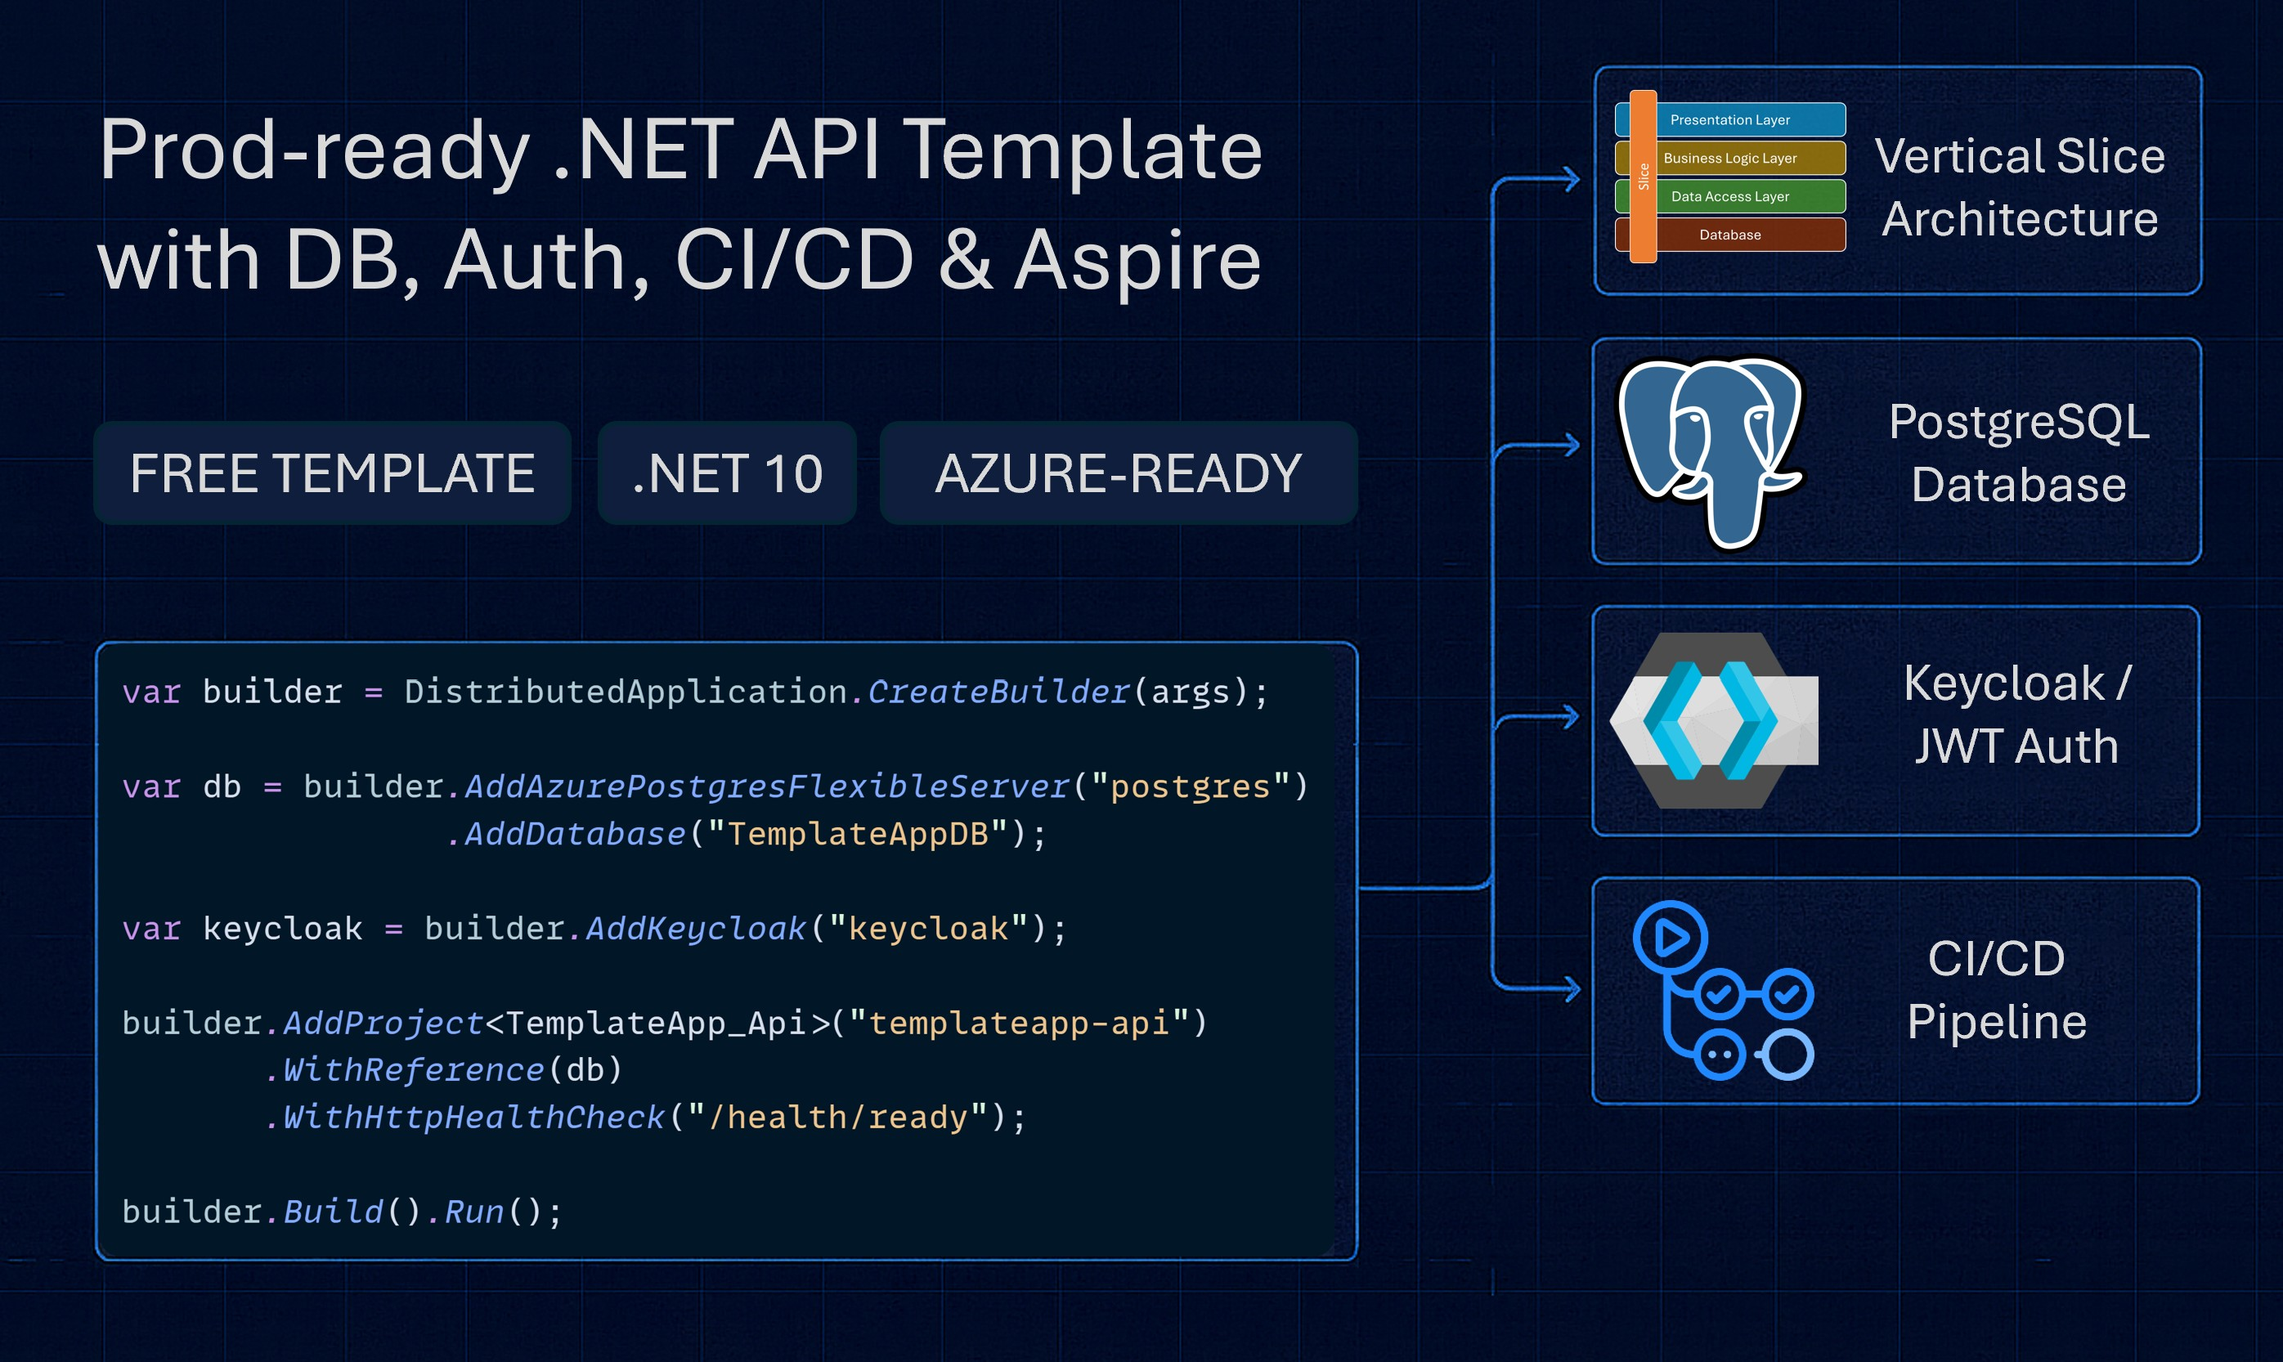
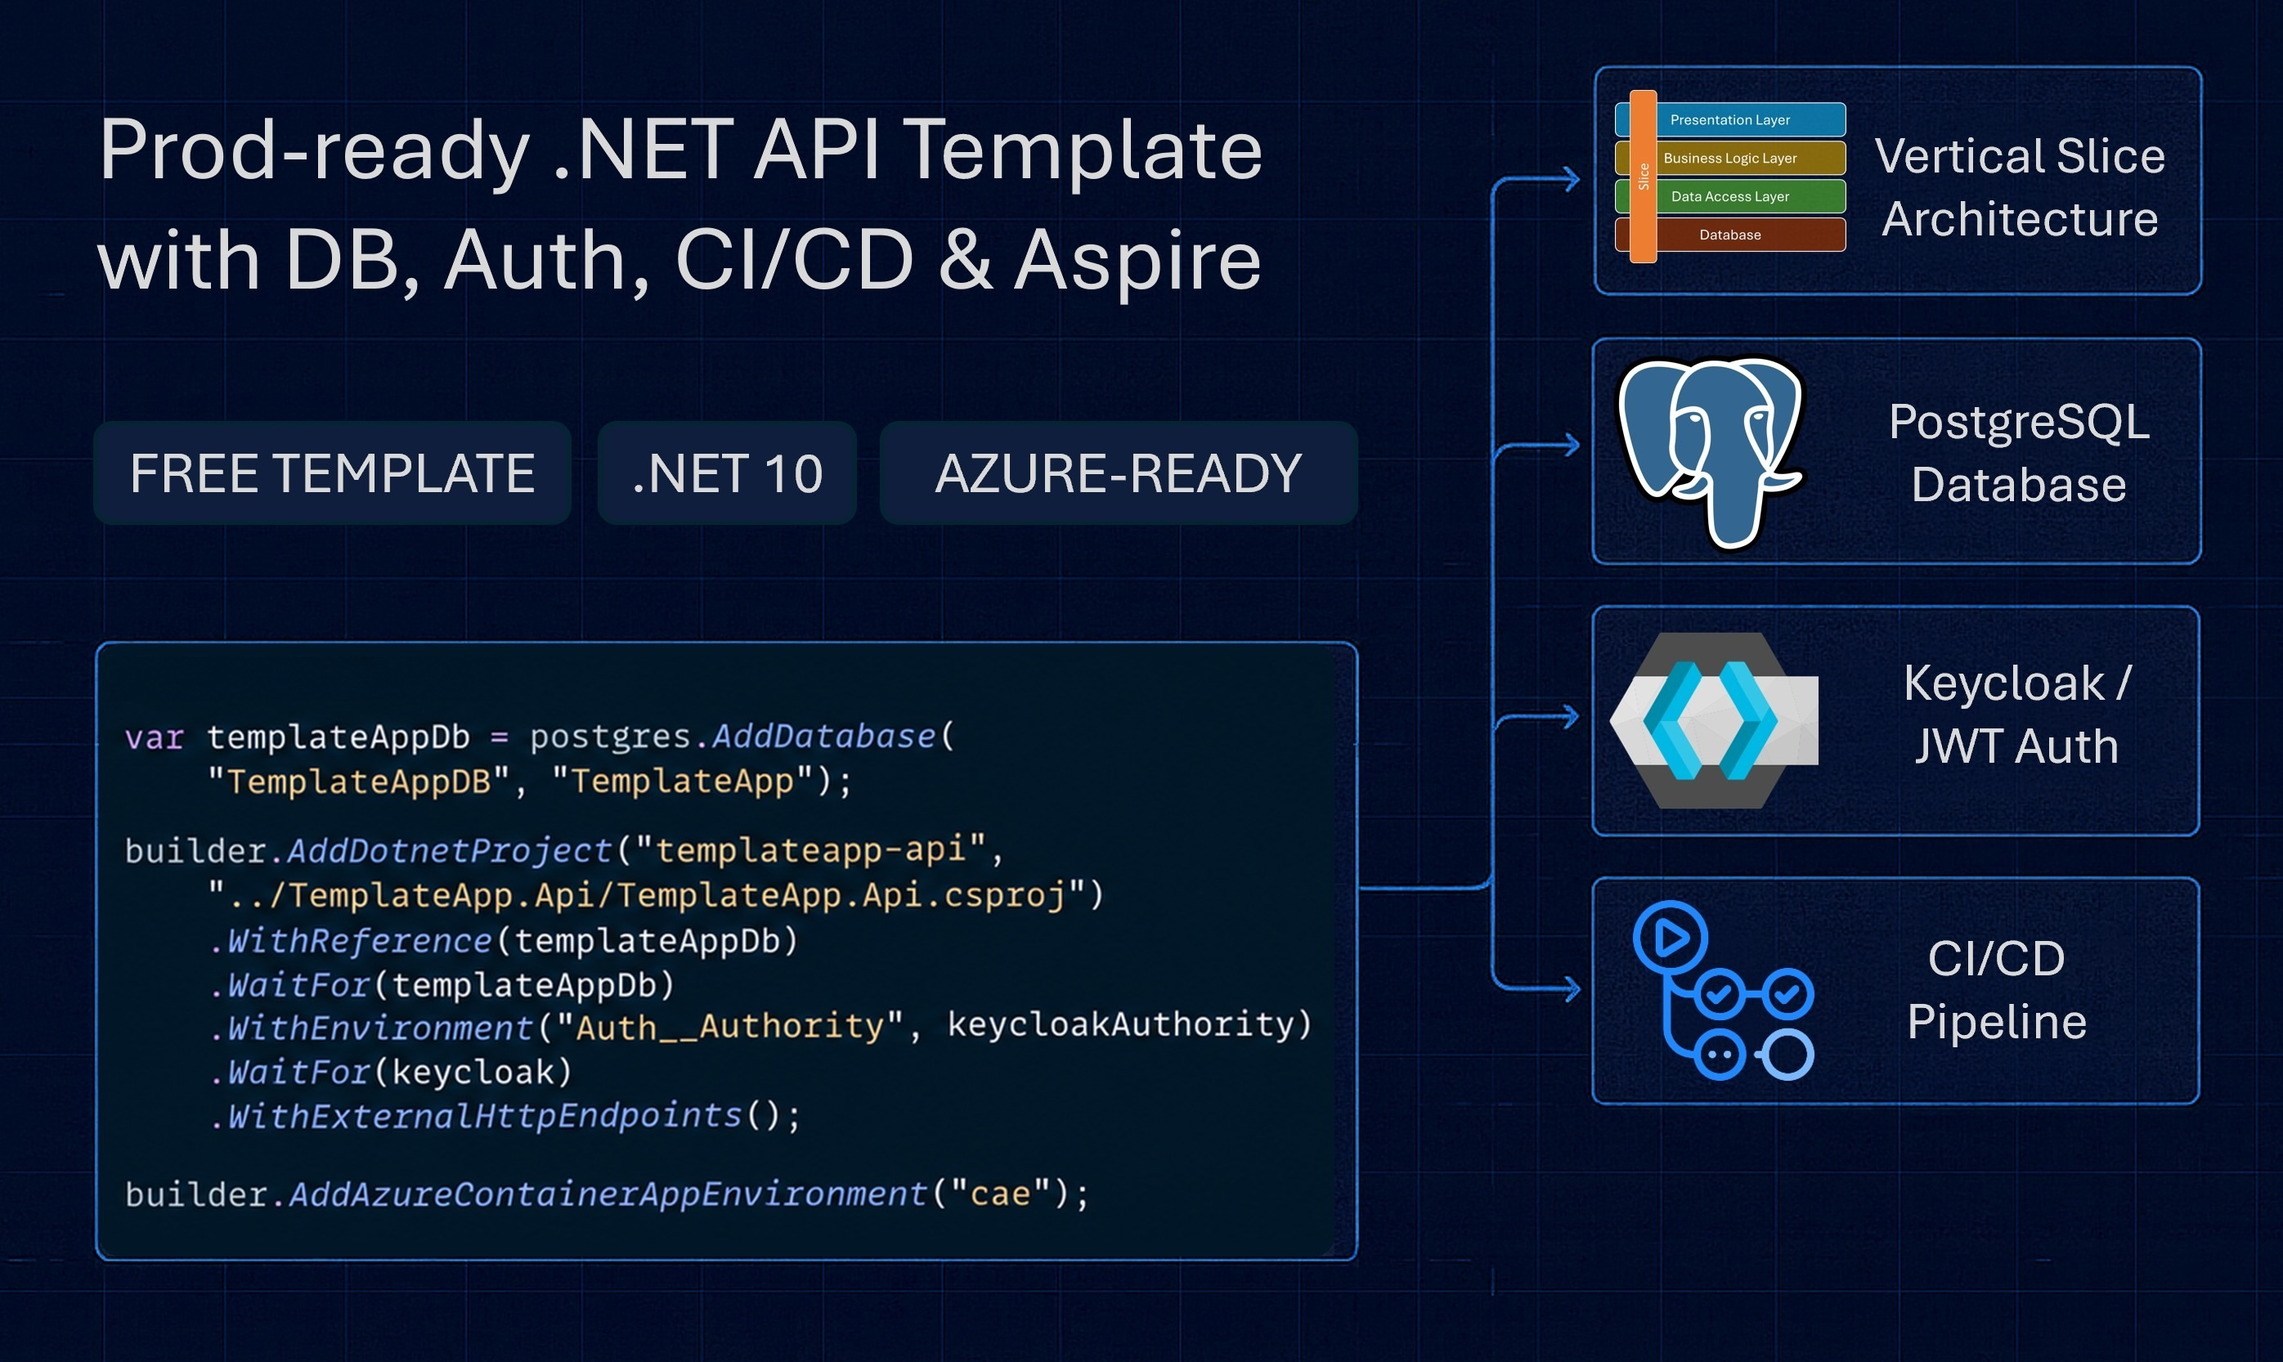
Update blueprint pages and images for the Aspire 17 release
Refresh the free, Pro and Full-Stack blueprint copy and hero images to
match the current templates: one-command deploy, OIDC pipelines with no
stored Azure secrets, 14 integration tests. Drop claims the templates
don't back (custom metrics, zero-config Azure deployment).

Changed region(s): [[0.0623, 0.4994, 0.5609, 0.8427], [0.0312, 0.8739, 0.4051, 0.9052], [0.4362, 0.8427, 0.4674, 0.9052]]

diff --git a/template-sent.html b/template-sent.html
@@ -39,11 +39,11 @@
     <meta property="og:title" content="Template Sent!" />
     <meta property="og:description"
         content="Skip weeks of setup and start delivering value on day 1 with a production-ready .NET backend template." />
-    <meta property="og:image" content="https://juliocasal.com/images/dotnet-backend-blueprint-pro-upgrade-hero.jpg" />
+    <meta property="og:image" content="https://juliocasal.com/images/dotnet-backend-blueprint-pro-upgrade-hero.jpg?v=aspire17-2" />
     <meta property="og:url" content="https://juliocasal.com/blueprint" />
     <meta name="twitter:card" content="summary_large_image">
-    <meta name="twitter:image" content="https://juliocasal.com/images/dotnet-backend-blueprint-pro-upgrade-hero.jpg">
-    <meta name="thumbnail" content="https://juliocasal.com/images/dotnet-backend-blueprint-pro-upgrade-hero.jpg" />
+    <meta name="twitter:image" content="https://juliocasal.com/images/dotnet-backend-blueprint-pro-upgrade-hero.jpg?v=aspire17-2">
+    <meta name="thumbnail" content="https://juliocasal.com/images/dotnet-backend-blueprint-pro-upgrade-hero.jpg?v=aspire17-2" />
     <meta name="robots" content="noindex">
 
     <!-- Webpage Title -->
@@ -211,7 +211,7 @@
             <!-- Image Section -->
             <div class="row justify-content-center mb-4">
                 <div class="col-lg-10 text-center">
-                    <img class="img-fluid rounded" src="images/dotnet-backend-blueprint-pro-upgrade-hero.jpg"
+                    <img class="img-fluid rounded" src="images/dotnet-backend-blueprint-pro-upgrade-hero.jpg?v=aspire17-2"
                         alt=".NET Backend Blueprint Template">
                 </div>
             </div>
@@ -220,9 +220,9 @@
             <div class="row justify-content-center">
                 <div class="col-lg-8 text-center">
                     <p class="line-spaced-paragraph text-white mb-3">
-                        Get the <strong>complete enterprise-ready blueprint</strong>. Everything you need to build
-                        scalable .NET backends
-                        that can handle real-world workloads.
+                        Get the <strong>complete .NET 10 Pro blueprint</strong>. One command puts the full stack in
+                        Azure in about 8 minutes: API, background worker, Service Bus, PostgreSQL, Keycloak and
+                        Application Insights.
                     </p>
                     <div style="margin-top: 2rem;">
                         <!-- CTA Buttons -->
@@ -285,8 +285,8 @@
                                 style="font-size: 1.25rem; margin-right: 1rem; margin-top: 0.1rem;"></i>
                             <div class="media-body">
                                 <h5 class="font-weight-bold">Integration Tests</h5>
-                                <p><strong>Comprehensive test suite</strong> with test containers, messaging mocks,
-                                    and authentication scenarios for reliable development.</p>
+                                <p><strong>14 integration tests</strong> with Testcontainers for PostgreSQL, messaging
+                                    mocks, and authentication checks. Both pipelines run them on every push.</p>
                             </div>
                         </div>
                     </div>
@@ -296,8 +296,8 @@
                                 style="font-size: 1.25rem; margin-right: 1rem; margin-top: 0.1rem;"></i>
                             <div class="media-body">
                                 <h5 class="font-weight-bold">Azure Application Insights</h5>
-                                <p><strong>Enhanced telemetry and monitoring</strong> with distributed tracing,
-                                    custom metrics, and production-grade observability out of the box.</p>
+                                <p><strong>Traces, logs and metrics from the API and the worker</strong> go straight to
+                                    Application Insights when you deploy to Azure.</p>
                             </div>
                         </div>
                     </div>
@@ -320,10 +320,9 @@
                                 style="font-size: 1.25rem; margin-right: 1rem; margin-top: 0.1rem;"></i>
                             <div class="media-body">
                                 <h5 class="font-weight-bold">Azure DevOps CI/CD</h5>
-                                <p>For enterprise teams using Azure DevOps. Complete pipeline with build, test, and
-                                    Azure
-                                    deployment for corporate environments.
-                                </p>
+                                <p>For teams on Azure DevOps. <strong>Builds, tests and deploys to Azure on every push
+                                    to main</strong>, signing in with OIDC so there are no Azure secrets to store or
+                                    rotate.</p>
                             </div>
                         </div>
                     </div>

diff --git a/courses/dotnetbootcamp.html b/courses/dotnetbootcamp.html
@@ -5150,7 +5150,7 @@
                             <div class="col-lg-9 mx-auto text-center">
                                 <h2 class="h2-heading mb-3">Two production-ready templates for your own projects</h2>
                                 <p class="line-spaced-paragraph mb-0">Auth, database, messaging, CI/CD, and Azure
-                                    deployment already working, on the same .NET 10 and Aspire stack you learn in the
+                                    deployment already working, on .NET 10 and Aspire, the stack you learn in the
                                     bootcamp.</p>
                             </div> <!-- end of col -->
                         </div> <!-- end of row -->
@@ -5161,7 +5161,7 @@
                                 <div class="bonus-item">
                                     <div class="image-container mb-3">
                                         <img loading="lazy" class="img-fluid rounded"
-                                            src="../images/dotnet-backend-blueprint-pro-hero.jpg"
+                                            src="../images/dotnet-backend-blueprint-pro-hero.jpg?v=aspire17-2"
                                             alt=".NET Backend Blueprint PRO 10 template">
                                     </div>
                                     <span class="bonus-price"><s>$39</s> Yours free</span>
@@ -5183,15 +5183,16 @@
                                         </li>
                                         <li class="feature-check d-flex align-items-start mb-2">
                                             <span class="feature-check-icon"><i class="fas fa-check fa-lg"></i></span>
-                                            <span><strong>Integration tests and 2 CI/CD pipelines.</strong> Test
-                                                containers, messaging mocks, and auth scenarios, plus ready pipelines
-                                                for GitHub Actions and Azure DevOps.</span>
+                                            <span><strong>Integration tests and 2 CI/CD pipelines.</strong> 14 tests
+                                                with Testcontainers, messaging mocks, and auth checks, plus pipelines
+                                                for GitHub Actions and Azure DevOps that sign in to Azure with no
+                                                stored secrets.</span>
                                         </li>
                                         <li class="feature-check d-flex align-items-start mb-2">
                                             <span class="feature-check-icon"><i class="fas fa-check fa-lg"></i></span>
                                             <span><strong>Production health checks and Application Insights.</strong>
-                                                Distributed tracing, custom metrics, and containers that self-heal when
-                                                a dependency goes down.</span>
+                                                Traces and metrics from the API and the worker, plus liveness and
+                                                readiness probes so Azure restarts a stuck container.</span>
                                         </li>
                                     </ul>
                                     <div class="topic-pills">
@@ -5210,13 +5211,13 @@
                                 <div class="bonus-item">
                                     <div class="image-container mb-3">
                                         <img loading="lazy" class="img-fluid rounded"
-                                            src="../images/dotnet-fullstack-blueprint-hero.jpg"
+                                            src="../images/dotnet-fullstack-blueprint-hero.jpg?v=aspire17"
                                             alt=".NET Full-Stack Blueprint 10 template">
                                     </div>
                                     <span class="bonus-price"><s>$39</s> Yours free</span>
                                     <div class="bonus-item-title">.NET Full-Stack Blueprint 10</div>
-                                    <p class="bonus-item-sub">A production-ready .NET 10 and React template with
-                                        zero-config auth, database, messaging, and Azure deployment.</p>
+                                    <p class="bonus-item-sub">A production-ready .NET 10 and React template with auth,
+                                        database, messaging, and Azure deployment already set up.</p>
                                     <ul class="list-unstyled feature-list">
                                         <li class="feature-check d-flex align-items-start mb-2">
                                             <span class="feature-check-icon"><i class="fas fa-check fa-lg"></i></span>

diff --git a/blueprint.html b/blueprint.html
@@ -39,11 +39,11 @@
     <meta property="og:title" content="Free .NET Backend Blueprint Template | Julio Casal" />
     <meta property="og:description"
         content="Skip weeks of setup and start delivering value on day 1 with a production-ready .NET backend template." />
-    <meta property="og:image" content="https://juliocasal.com/images/dotnet-backend-blueprint-thumbnail.jpg" />
+    <meta property="og:image" content="https://juliocasal.com/images/dotnet-backend-blueprint-thumbnail.jpg?v=aspire17-2" />
     <meta property="og:url" content="https://juliocasal.com/blueprint" />
     <meta name="twitter:card" content="summary_large_image">
-    <meta name="twitter:image" content="https://juliocasal.com/images/dotnet-backend-blueprint-thumbnail.jpg">
-    <meta name="thumbnail" content="https://juliocasal.com/images/dotnet-backend-blueprint-thumbnail.jpg" />
+    <meta name="twitter:image" content="https://juliocasal.com/images/dotnet-backend-blueprint-thumbnail.jpg?v=aspire17-2">
+    <meta name="thumbnail" content="https://juliocasal.com/images/dotnet-backend-blueprint-thumbnail.jpg?v=aspire17-2" />
 
     <!-- Webpage Title -->
     <title>Free .NET Backend Blueprint Template | Julio Casal</title>
@@ -175,7 +175,7 @@
             <!-- Image Section -->
             <div class="row justify-content-center mb-4">
                 <div class="col-lg-10 text-center">
-                    <img class="img-fluid rounded" src="images/dotnet-backend-blueprint-hero.jpg"
+                    <img class="img-fluid rounded" src="images/dotnet-backend-blueprint-hero.jpg?v=aspire17-2"
                         alt=".NET Backend Blueprint Template">
                 </div>
             </div>
@@ -239,8 +239,9 @@
                                 style="font-size: 1.25rem; margin-right: 1rem; margin-top: 0.1rem;"></i>
                             <div class="media-body">
                                 <h5 class="font-weight-bold">Azure Deployment Ready</h5>
-                                <p><strong>One-command deployment</strong> to Azure Container Apps with PostgreSQL
-                                    Flexible Server, Keycloak and managed identities.</p>
+                                <p><strong>One command</strong> sets up Azure Container Apps,
+                                    PostgreSQL Flexible Server, Keycloak and a managed identity, then deploys your
+                                    API.</p>
                             </div>
                         </div>
                     </div>
@@ -261,8 +262,9 @@
                                 style="font-size: 1.25rem; margin-right: 1rem; margin-top: 0.1rem;"></i>
                             <div class="media-body">
                                 <h5 class="font-weight-bold">GitHub Actions CI/CD</h5>
-                                <p><strong>Pre-configured GitHub Actions workflows</strong> with automated building and
-                                    deployment to Azure. Push to deploy in minutes.</p>
+                                <p><strong>A GitHub Actions workflow</strong> that builds and deploys to Azure on every
+                                    push to main. It signs in with OIDC, so there are no Azure secrets to store or
+                                    rotate.</p>
                             </div>
                         </div>
                     </div>

diff --git a/list-sent-fullstack-blueprint.html b/list-sent-fullstack-blueprint.html
@@ -39,11 +39,11 @@
     <meta property="og:title" content="Book List Sent! Get Your .NET Full-Stack Blueprint" />
     <meta property="og:description"
         content="Your .NET book list is ready! Apply what you learned with the .NET Full-Stack Blueprint template." />
-    <meta property="og:image" content="https://juliocasal.com/images/dotnet-fullstack-blueprint-hero.jpg" />
+    <meta property="og:image" content="https://juliocasal.com/images/dotnet-fullstack-blueprint-hero.jpg?v=aspire17" />
     <meta property="og:url" content="https://juliocasal.com/list-sent" />
     <meta name="twitter:card" content="summary_large_image">
-    <meta name="twitter:image" content="https://juliocasal.com/images/dotnet-fullstack-blueprint-hero.jpg">
-    <meta name="thumbnail" content="https://juliocasal.com/images/dotnet-fullstack-blueprint-hero.jpg" />
+    <meta name="twitter:image" content="https://juliocasal.com/images/dotnet-fullstack-blueprint-hero.jpg?v=aspire17">
+    <meta name="thumbnail" content="https://juliocasal.com/images/dotnet-fullstack-blueprint-hero.jpg?v=aspire17" />
     <meta name="robots" content="noindex">
 
     <!-- Webpage Title -->
@@ -210,7 +210,7 @@
             <!-- Image Section -->
             <div class="row justify-content-center mb-4">
                 <div class="col-lg-10 text-center">
-                    <img class="img-fluid rounded" src="images/dotnet-fullstack-blueprint-hero.jpg"
+                    <img class="img-fluid rounded" src="images/dotnet-fullstack-blueprint-hero.jpg?v=aspire17"
                         alt=".NET Full-Stack Blueprint Template">
                 </div>
             </div>
